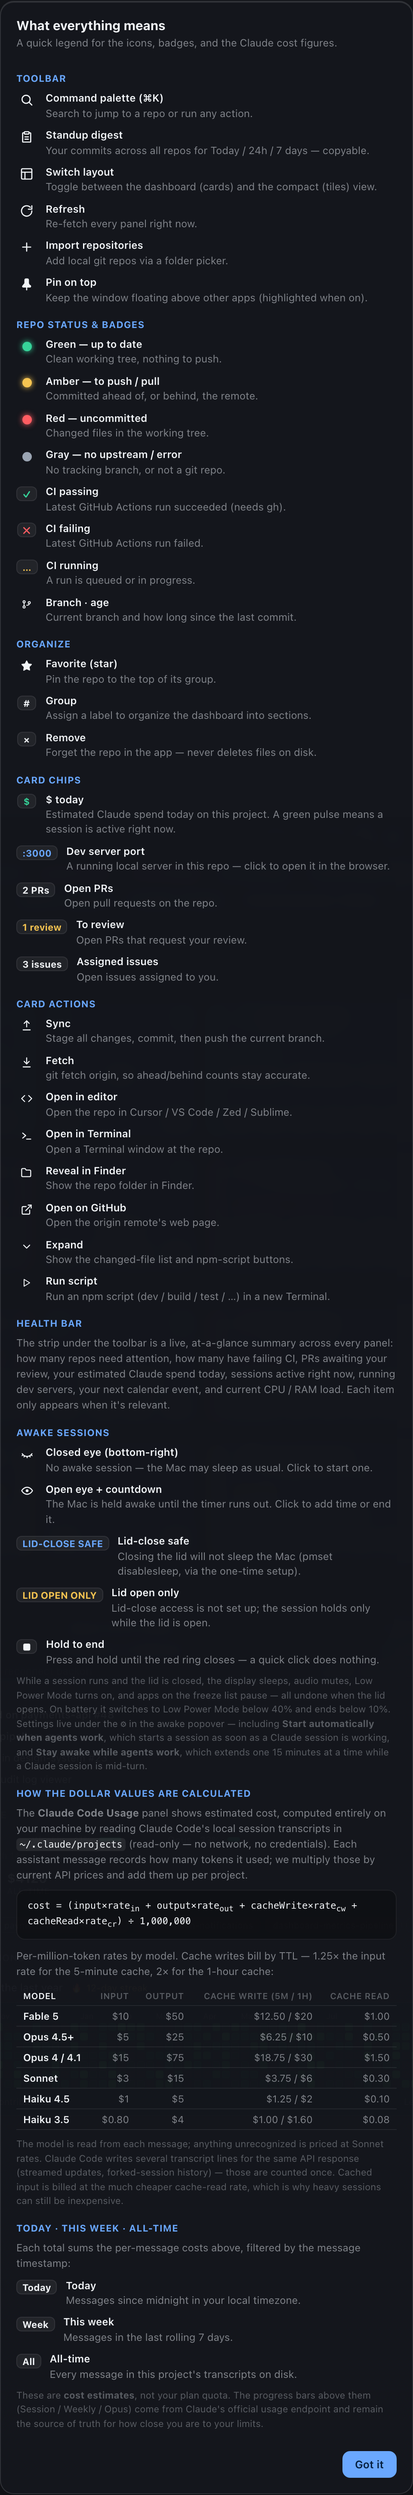
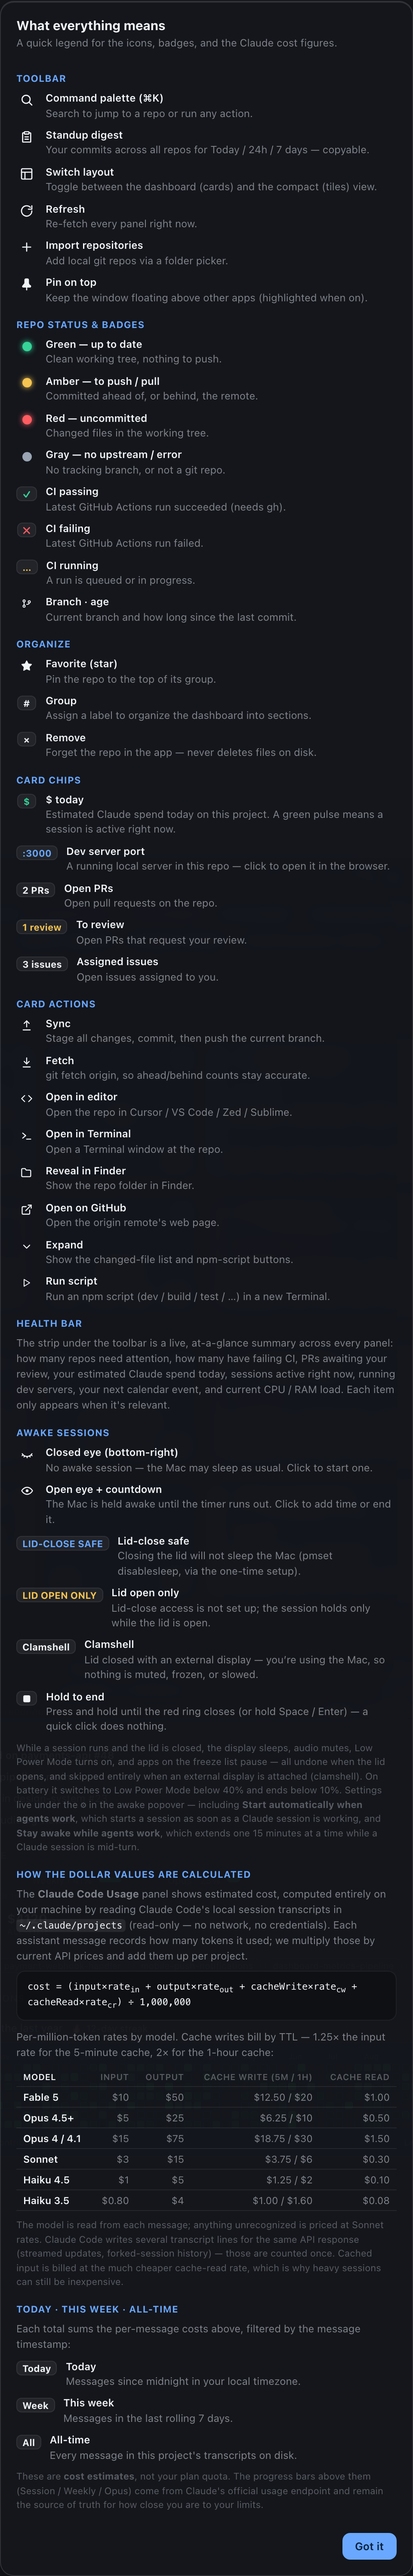
docs(awake): explain the Clamshell tag and keyboard end in the info card
The info card's awake legend gains a Clamshell row, notes that holding
Space / Enter also ends a session, and says lid-close actions are
skipped with an external display attached. Screenshot recaptured.

diff --git a/src/renderer/src/components/InfoDialog.tsx b/src/renderer/src/components/InfoDialog.tsx
@@ -94,7 +94,8 @@ export default function InfoDialog({ onClose }: { onClose: () => void }): JSX.El
     { icon: <IconEye open />, label: 'Open eye + countdown', desc: 'The Mac is held awake until the timer runs out. Click to add time or end it.' },
     { icon: glyph('LID-CLOSE SAFE', 'chip-server'), label: 'Lid-close safe', desc: 'Closing the lid will not sleep the Mac (pmset disablesleep, via the one-time setup).' },
     { icon: glyph('LID OPEN ONLY', 'chip-attn'), label: 'Lid open only', desc: 'Lid-close access is not set up; the session holds only while the lid is open.' },
-    { icon: glyph('■'), label: 'Hold to end', desc: 'Press and hold until the red ring closes — a quick click does nothing.' }
+    { icon: glyph('Clamshell'), label: 'Clamshell', desc: 'Lid closed with an external display — you’re using the Mac, so nothing is muted, frozen, or slowed.' },
+    { icon: glyph('■'), label: 'Hold to end', desc: 'Press and hold until the red ring closes (or hold Space / Enter) — a quick click does nothing.' }
   ]
 
   return (
@@ -131,7 +132,8 @@ export default function InfoDialog({ onClose }: { onClose: () => void }): JSX.El
           <Legend rows={awake} />
           <p className="info-note">
             While a session runs and the lid is closed, the display sleeps, audio mutes, Low Power
-            Mode turns on, and apps on the freeze list pause — all undone when the lid opens. On
+            Mode turns on, and apps on the freeze list pause — all undone when the lid opens, and
+            skipped entirely when an external display is attached (clamshell). On
             battery it switches to Low Power Mode below 40% and ends below 10%. Settings live under
             the ⚙ in the awake popover — including <strong>Start automatically when agents work</strong>,
             which starts a session as soon as a Claude session is working, and{' '}
